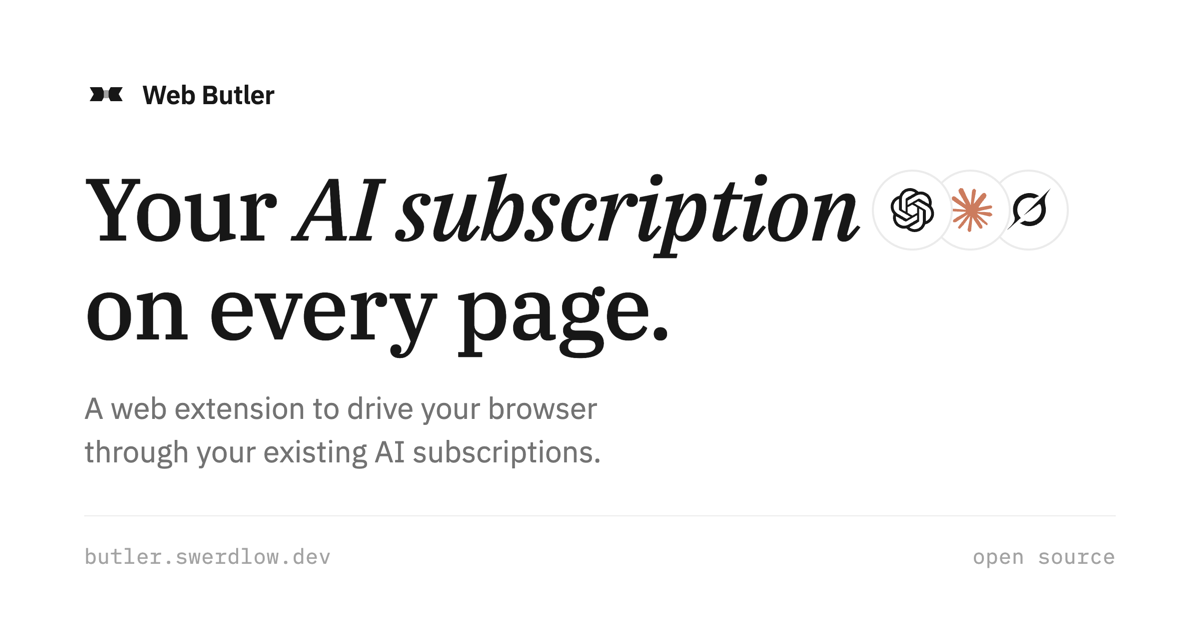
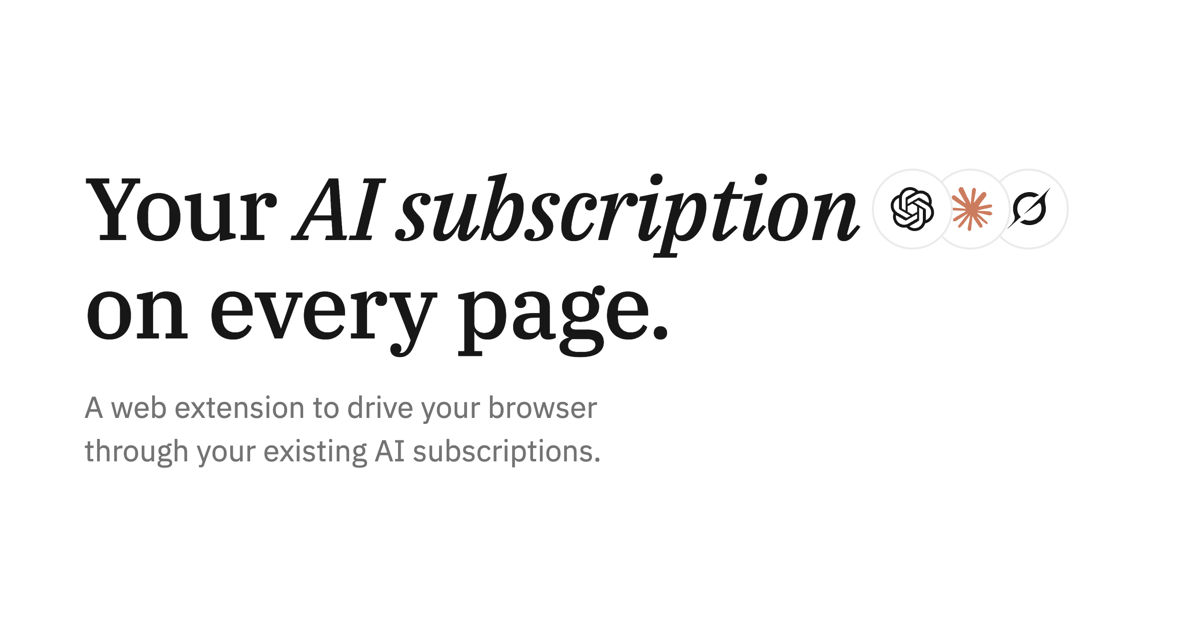
homepage: OG card drops the wordmark and footer line, headline and lede only

diff --git a/apps/homepage/og.html b/apps/homepage/og.html
@@ -27,20 +27,10 @@
       font-family: var(--sans);
       display: flex;
       flex-direction: column;
-      padding: 72px 84px 60px;
+      justify-content: center;
+      padding: 0 84px;
     }
-    .mark {
-      display: flex;
-      align-items: center;
-      gap: 14px;
-      font-size: 26px;
-      font-weight: 600;
-      letter-spacing: -0.01em;
-    }
-    .mark svg { width: 44px; height: 44px; }
-    .bt-knot { fill: #a3a3a3; }
     h1 {
-      margin-top: auto;
       font-family: var(--serif);
       font-weight: 500;
       font-size: 88px;
@@ -78,37 +68,13 @@
       color: var(--text-3);
       max-width: 30ch;
     }
-    .foot {
-      margin-top: auto;
-      display: flex;
-      align-items: baseline;
-      justify-content: space-between;
-      border-top: 1px solid var(--hairline);
-      padding-top: 26px;
-      font-family: var(--mono);
-      font-size: 21px;
-      color: var(--mist);
-      letter-spacing: 0.02em;
-    }
   </style>
 </head>
 <body>
-  <div class="mark">
-    <svg viewBox="0 0 24 24" aria-hidden="true">
-      <path fill="#171717" d="M3 8.2 H9.6 L11.6 12 L9.6 15.8 H3 L5.2 12 Z" />
-      <path fill="#171717" d="M21 8.2 H14.4 L12.4 12 L14.4 15.8 H21 L18.8 12 Z" />
-      <rect class="bt-knot" x="10.7" y="9.8" width="2.6" height="4.4" rx="0.5" />
-    </svg>
-    Web Butler
-  </div>
   <h1>
     Your <em>AI subscription</em><span class="logos"><span class="chip chip-chatgpt"><svg viewBox="0 0 24 24" fill="currentColor"><path d="M22.2819 9.8211a5.9847 5.9847 0 0 0-.5157-4.9108 6.0462 6.0462 0 0 0-6.5098-2.9A6.0651 6.0651 0 0 0 4.9807 4.1818a5.9847 5.9847 0 0 0-3.9977 2.9 6.0462 6.0462 0 0 0 .7427 7.0966 5.98 5.98 0 0 0 .511 4.9107 6.051 6.051 0 0 0 6.5146 2.9001A5.9847 5.9847 0 0 0 13.2599 24a6.0557 6.0557 0 0 0 5.7718-4.2058 5.9894 5.9894 0 0 0 3.9977-2.9001 6.0557 6.0557 0 0 0-.7475-7.073zm-9.022 12.6081a4.4755 4.4755 0 0 1-2.8764-1.0408l.1419-.0804 4.7783-2.7582a.7948.7948 0 0 0 .3927-.6813v-6.7369l2.02 1.1686a.071.071 0 0 1 .038.052v5.5826a4.504 4.504 0 0 1-4.4945 4.4944zm-9.6607-4.1254a4.4708 4.4708 0 0 1-.5346-3.0137l.142.0852 4.783 2.7582a.7712.7712 0 0 0 .7806 0l5.8428-3.3685v2.3324a.0804.0804 0 0 1-.0332.0615L9.74 19.9502a4.4992 4.4992 0 0 1-6.1408-1.6464zM2.3408 7.8956a4.485 4.485 0 0 1 2.3655-1.9728V11.6a.7664.7664 0 0 0 .3879.6765l5.8144 3.3543-2.0201 1.1685a.0757.0757 0 0 1-.071 0l-4.8303-2.7865A4.504 4.504 0 0 1 2.3408 7.8956zm16.5963 3.8558L13.1038 8.364 15.1192 7.2a.0757.0757 0 0 1 .071 0l4.8303 2.7913a4.4944 4.4944 0 0 1-.6765 8.1042v-5.6772a.79.79 0 0 0-.407-.667zm2.0107-3.0231l-.142-.0852-4.7735-2.7818a.7759.7759 0 0 0-.7854 0L9.409 9.2297V6.8974a.0662.0662 0 0 1 .0284-.0615l4.8303-2.7866a4.4992 4.4992 0 0 1 6.6802 4.66zM8.3065 12.863l-2.02-1.1638a.0804.0804 0 0 1-.038-.0567V6.0742a4.4992 4.4992 0 0 1 7.3757-3.4537l-.142.0805L8.704 5.459a.7948.7948 0 0 0-.3927.6813zm1.0976-2.3654l2.602-1.4998 2.6069 1.4998v2.9994l-2.5974 1.4997-2.6067-1.4997Z"/></svg></span><span class="chip chip-claude"><svg viewBox="0 0 24 24" fill="currentColor"><path d="m4.7144 15.9555 4.7174-2.6471.079-.2307-.079-.1275h-.2307l-.7893-.0486-2.6956-.0729-2.3375-.0971-2.2646-.1214-.5707-.1215-.5343-.7042.0546-.3522.4797-.3218.686.0608 1.5179.1032 2.2767.1578 1.6514.0972 2.4468.255h.3886l.0546-.1579-.1336-.0971-.1032-.0972L6.973 9.8356l-2.55-1.6879-1.3356-.9714-.7225-.4918-.3643-.4614-.1578-1.0078.6557-.7225.8803.0607.2246.0607.8925.686 1.9064 1.4754 2.4893 1.8336.3643.3035.1457-.1032.0182-.0728-.164-.2733-1.3539-2.4467-1.445-2.4893-.6435-1.032-.17-.6194c-.0607-.255-.1032-.4674-.1032-.7285L6.287.1335 6.6997 0l.9957.1336.419.3642.6192 1.4147 1.0018 2.2282 1.5543 3.0296.4553.8985.2429.8318.091.255h.1579v-.1457l.1275-1.706.2368-2.0947.2307-2.6957.0789-.7589.3764-.9107.7468-.4918.5828.2793.4797.686-.0668.4433-.2853 1.8517-.5586 2.9021-.3643 1.9429h.2125l.2429-.2429.9835-1.3053 1.6514-2.0643.7286-.8196.85-.9046.5464-.4311h1.0321l.759 1.1293-.34 1.1657-1.0625 1.3478-.8804 1.1414-1.2628 1.7-.7893 1.36.0729.1093.1882-.0183 2.8535-.607 1.5421-.2794 1.8396-.3157.8318.3886.091.3946-.3278.8075-1.967.4857-2.3072.4614-3.4364.8136-.0425.0304.0486.0607 1.5482.1457.6618.0364h1.621l3.0175.2247.7892.522.4736.6376-.079.4857-1.2142.6193-1.6393-.3886-3.825-.9107-1.3113-.3279h-.1822v.1093l1.0929 1.0686 2.0035 1.8092 2.5075 2.3314.1275.5768-.3218.4554-.34-.0486-2.2039-1.6575-.85-.7468-1.9246-1.621h-.1275v.17l.4432.6496 2.3436 3.5214.1214 1.0807-.17.3521-.6071.2125-.6679-.1214-1.3721-1.9246L14.38 17.959l-1.1414-1.9428-.1397.079-.674 7.2552-.3156.3703-.7286.2793-.6071-.4614-.3218-.7468.3218-1.4753.3886-1.9246.3157-1.53.2853-1.9004.17-.6314-.0121-.0425-.1397.0182-1.4328 1.9672-2.1796 2.9446-1.7243 1.8456-.4128.164-.7164-.3704.0667-.6618.4008-.5889 2.386-3.0357 1.4389-1.882.929-1.0868-.0062-.1579h-.0546l-6.3385 4.1164-1.1293.1457-.4857-.4554.0608-.7467.2307-.2429 1.9064-1.3114Z"/></svg></span><span class="chip chip-grok"><svg viewBox="0 0 1024 1024" fill="currentColor"><path d="M395.479 633.828L735.91 381.105C752.599 368.715 776.454 373.548 784.406 392.792C826.26 494.285 807.561 616.253 724.288 699.996C641.016 783.739 525.151 802.104 419.247 760.277L303.556 814.143C469.49 928.202 670.987 899.995 796.901 773.282C896.776 672.843 927.708 535.937 898.785 412.476L899.047 412.739C857.105 231.37 909.358 158.874 1016.4 10.6326C1018.93 7.11771 1021.47 3.60279 1024 0L883.144 141.651V141.212L395.392 633.916"/><path d="M325.226 695.251C206.128 580.84 226.662 403.776 328.285 301.668C403.431 226.097 526.549 195.254 634.026 240.596L749.454 186.994C728.657 171.88 702.007 155.623 671.424 144.2C533.19 86.9942 367.693 115.465 255.323 228.382C147.234 337.081 113.244 504.215 171.613 646.833C215.216 753.423 143.739 828.818 71.7385 904.916C46.2237 931.893 20.6216 958.87 0 987.429L325.139 695.339"/></svg></span></span><br />
     on every page.
   </h1>
   <p class="lede">A web extension to drive your browser through your existing AI subscriptions.</p>
-  <div class="foot">
-    <span>butler.swerdlow.dev</span>
-    <span>open source</span>
-  </div>
 </body>
 </html>